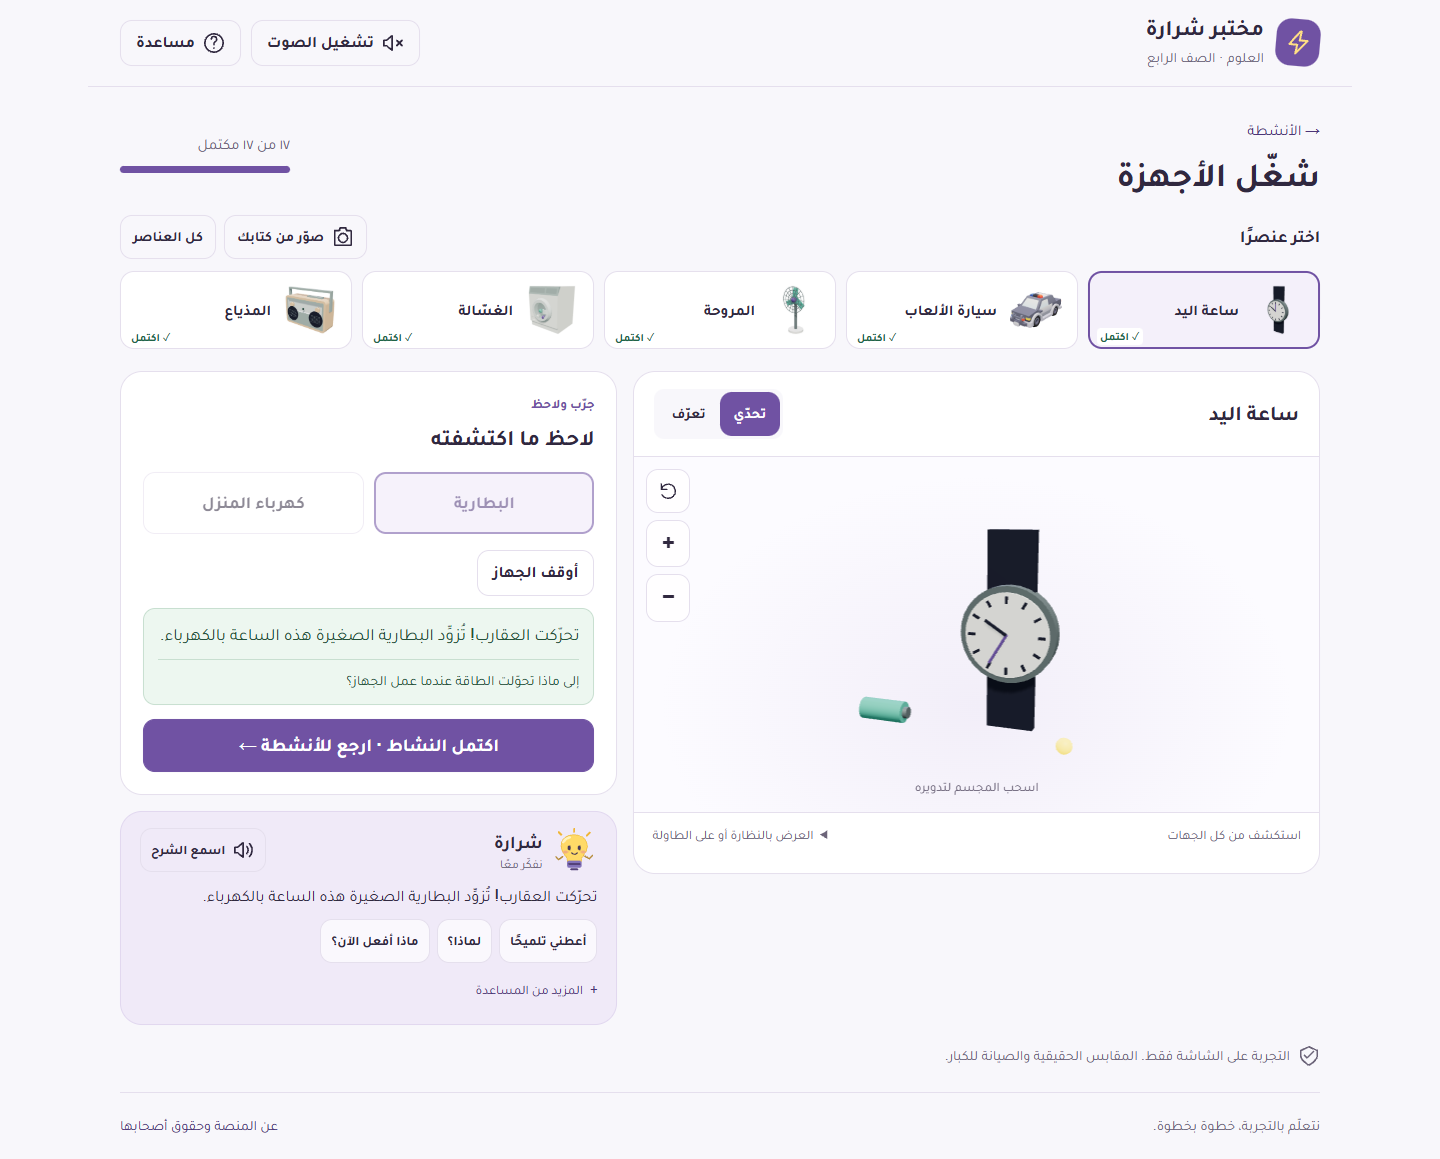
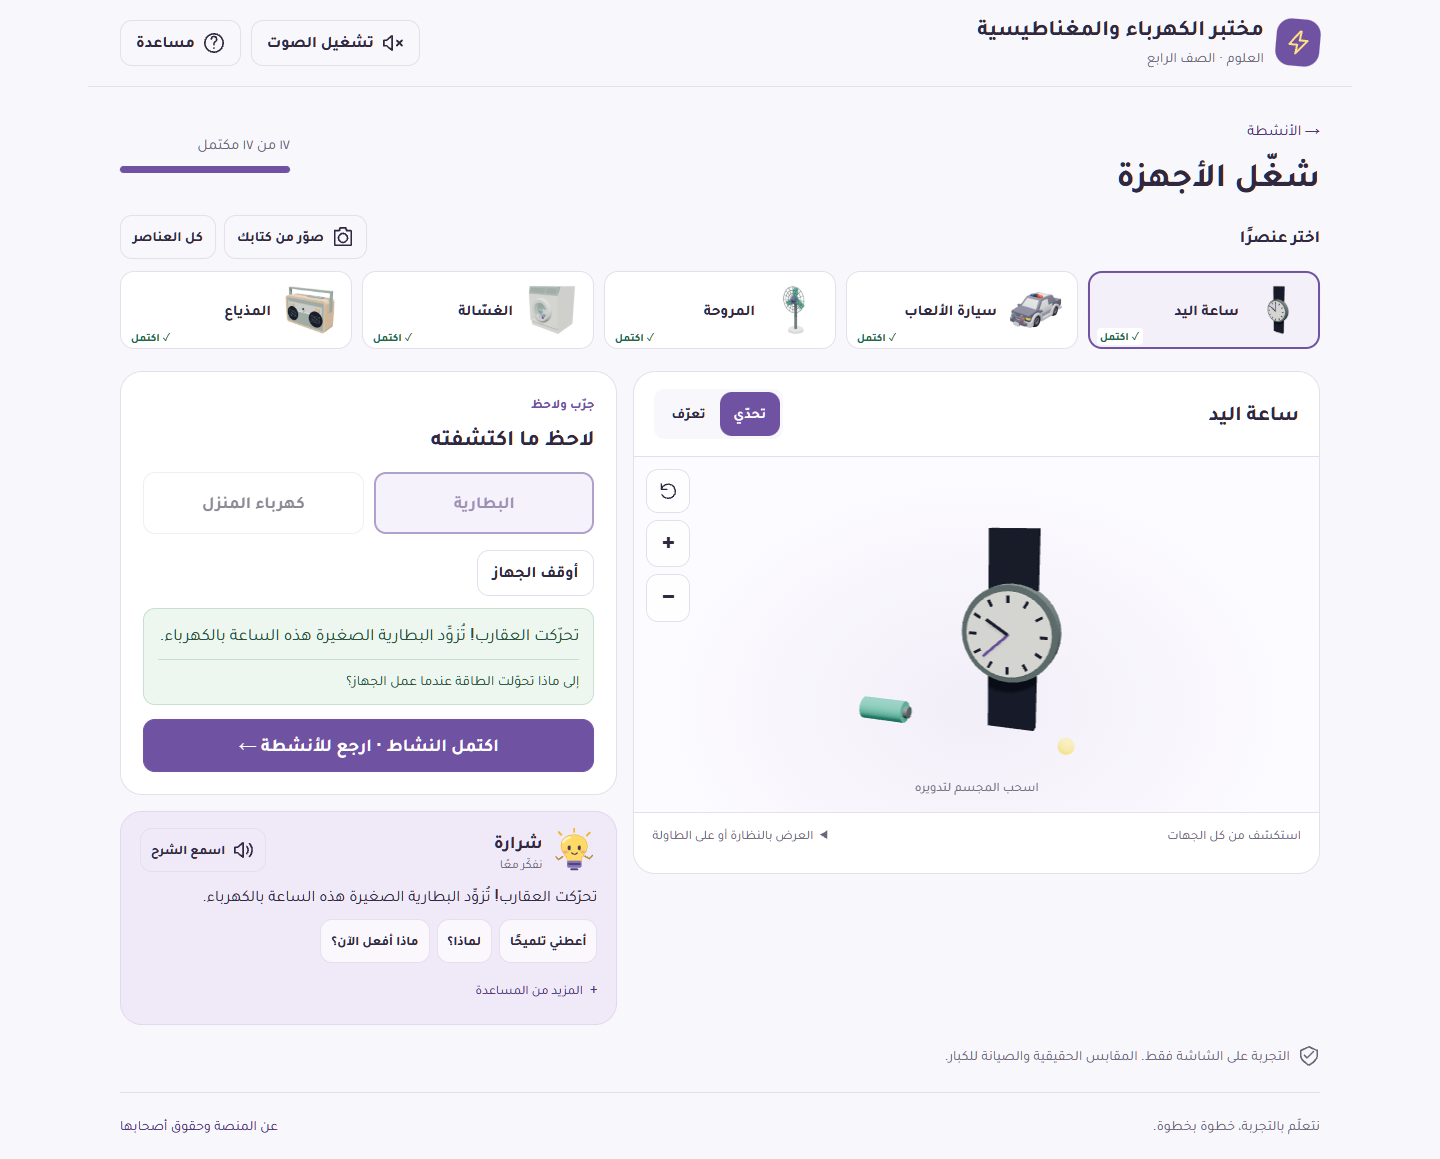
fix(mobile): show full header title without truncation and center elements on small screens

diff --git a/src/shared/lab.css b/src/shared/lab.css
@@ -6,10 +6,10 @@
 @media(max-width:1270px){.home-main,.activity-main,.site-footer{margin-inline:28px}.activity-cards{gap:14px}.activity-copy{padding:18px 15px}.activity-copy h2{font-size:21px}.card-bottom{align-items:flex-start;flex-direction:column;gap:0;margin-top:15px}.item-card{font-size:14px;gap:6px;padding:8px}.item-card.selected{padding:7px}.item-card img{width:45px}.experiment-grid{grid-template-columns:minmax(0,1.2fr) minmax(310px,1fr)}}
 @media(max-width:950px){.activity-cards{grid-template-columns:repeat(2,minmax(0,1fr));gap:20px}.activity-art{height:195px}.activity-art img{height:145px}.activity-card:first-child .activity-art img{height:180px}.activity-copy p{min-height:0}.card-bottom{flex-direction:row;align-items:center;margin-top:14px}.welcome h1{font-size:36px}.welcome-note{display:none}.item-picker{gap:7px}.item-card{flex-direction:column;text-align:center;gap:0;font-size:13px}.item-card img{width:52px;height:42px}.experiment-grid{grid-template-columns:minmax(0,1fr) minmax(280px,.9fr);gap:12px}.answer-card{padding:17px}.answer-card h2{font-size:20px}.model-heading{flex-wrap:wrap;padding:12px 15px}.stage{height:350px}.assistant{padding:14px}.model-footer{display:block}.model-footer>span{display:none}.model-footer details{max-width:none}}
 @media(max-width:700px){.site-header{padding:14px 18px;min-height:78px;gap:10px}.brand strong{font-size:19px}.brand small{font-size:12px}.brand-mark{width:36px;height:41px}.brand{gap:8px}.site-header nav{gap:5px}.site-header nav button{padding:8px;font-size:12px;gap:5px}.site-header nav svg{width:18px;height:18px}.home-main,.activity-main,.site-footer{margin-inline:18px}.welcome{padding:26px 0 23px;display:block}.welcome h1{font-size:33px}.welcome p{font-size:16px}.welcome .eyebrow{font-size:14px}.resume{margin-top:15px}.activity-cards{gap:12px}.activity-art{height:153px}.activity-art img{height:110px}.activity-card:first-child .activity-art img{height:145px}.art-label{font-size:10px;bottom:8px;right:8px;padding:2px 6px}.activity-copy{padding:15px 12px}.activity-copy h2{font-size:20px}.activity-copy p{font-size:14px;min-height:45px}.card-bottom{flex-direction:column;align-items:flex-start;gap:0;margin-top:10px}.start-link{font-size:15px;gap:10px}.card-bottom small{font-size:11px}.home-note{font-size:13px;margin:22px 0}.site-footer{font-size:12px;padding:17px 0;flex-wrap:wrap;margin-top:18px}.activity-heading{margin:12px 0 16px;align-items:flex-end}.activity-heading h1{font-size:27px}.progress-block{width:110px;font-size:12px;padding-bottom:5px}.section-line{align-items:center;gap:6px}.section-line>div{gap:5px}.section-line button{font-size:12px;padding:6px 9px}.section-line button svg{width:17px;height:17px}.section-line h2{font-size:15px}.item-picker{grid-template-columns:repeat(5,minmax(0,1fr));gap:5px;margin-bottom:14px}.item-card{padding:6px 3px;min-height:86px;font-size:11px;border-radius:10px}.item-card.selected{padding:5px 2px}.item-card img{width:45px;height:40px}.completed{font-size:9px;bottom:-3px;inset-inline-end:2px}.experiment-grid{display:flex;flex-direction:column;gap:13px}.model-card,.answer-card,.assistant{width:100%}.model-heading{flex-wrap:nowrap;padding:12px 14px}.model-heading h2{font-size:19px}.mode-switch button{font-size:13px;padding:5px 12px}.stage{height:270px}.stage-caption{bottom:8px}.model-footer{padding:6px 15px;font-size:12px}.model-footer details{max-width:none}.answer-card{padding:18px}.answer-card h2{font-size:22px;margin-bottom:14px}.answer-controls button{min-height:56px}.answer-controls.bins{grid-template-columns:repeat(4,minmax(0,1fr))}.bins button{min-height:72px;font-size:14px;padding:8px 5px}.assistant #guide-text{font-size:16px}.safety-note{font-size:12px}.about-main{margin:18px}.about-main section{padding:18px}.about-main h1{font-size:30px}.library-grid{grid-template-columns:repeat(2,minmax(0,1fr))}dialog{padding:18px}.dialog-head h2{font-size:21px}.circuit-svg{height:130px}}
-@media(max-width:370px){.site-header{padding:12px}.brand strong{font-size:17px}.brand small{font-size:11px}.brand-mark{display:none}.site-header nav button{font-size:11px}.home-main,.activity-main,.site-footer{margin-inline:12px}.welcome h1{font-size:29px}.activity-copy h2{font-size:18px}.activity-copy{padding:12px 9px}.activity-copy p{font-size:13px}.activity-heading h1{font-size:24px}.progress-block{width:90px}.section-line h2{display:none}.section-line>div{width:100%;justify-content:space-between}.answer-controls.bins{grid-template-columns:repeat(3,minmax(0,1fr))}.assistant-actions button{font-size:12px}}
+@media(max-width:370px){.site-header{padding:10px 12px}.brand strong{font-size:13.5px}.brand small{font-size:10.5px}.brand-mark{display:none}.site-header nav button{font-size:11px}.home-main,.activity-main,.site-footer{margin-inline:12px}.welcome h1{font-size:29px}.activity-copy h2{font-size:18px}.activity-copy{padding:12px 9px}.activity-copy p{font-size:13px}.activity-heading h1{font-size:24px}.progress-block{width:min(200px,100%)}.section-line h2{display:none}.section-line>div{width:100%;justify-content:center}.answer-controls.bins{grid-template-columns:repeat(3,minmax(0,1fr))}.assistant-actions button{font-size:12px}}
 .mode-switch button{min-height:44px}.understanding{font-size:14px;border-top:1px solid #c8dfd0;padding-top:9px;margin-top:10px}
 #voice-settings label{display:block;margin-top:16px;font-weight:700}#voice-settings select{display:block;width:100%;margin:6px 0 10px}#preview-voice{margin:15px 0}#voice-settings small{display:block;margin-top:16px;color:var(--muted)}
 @media(max-width:700px){.activity-copy{text-align:center}.activity-copy .card-bottom{align-items:center}}
 #xr-answer-controls{pointer-events:auto;max-width:500px;display:flex;flex-wrap:wrap}#xr-answer-controls [aria-pressed=true]{background:var(--lilac);border:2px solid var(--deep)}
-@media(max-width:700px){.brand{flex-shrink:0}.brand strong{font-size:17px;white-space:nowrap}.brand small{font-size:10px;white-space:nowrap}.brand-mark{width:30px;height:37px}.site-header nav{min-width:0}.site-header nav button{padding:7px;font-size:11px}.site-header nav button span{white-space:nowrap}.site-header nav button svg{width:16px;height:16px}.item-picker .item-card{min-height:96px;padding-bottom:17px}.item-picker .item-card.selected{padding-bottom:16px}.item-picker .item-card span{display:-webkit-box;-webkit-line-clamp:2;-webkit-box-orient:vertical;overflow:hidden}.item-picker .completed{bottom:1px}.stage{height:250px}}
+@media(max-width:700px){.site-header{width:100%;min-width:0;padding:12px 14px;gap:8px}.brand{min-width:0;flex:1 1 auto;gap:8px}.brand>span:last-child{min-width:0}.brand strong{font-size:clamp(13px,3.8vw,16px);line-height:1.25;white-space:normal;overflow-wrap:break-word}.brand small{font-size:11px;margin-top:3px;white-space:normal}.brand-mark{width:30px;height:37px;flex-shrink:0}.site-header nav{min-width:0;flex:0 0 auto;gap:5px}.site-header nav button{flex:0 0 44px;width:44px;padding:8px;font-size:11px}.site-header nav button span{position:absolute;width:1px;height:1px;padding:0;margin:-1px;overflow:hidden;clip:rect(0,0,0,0);white-space:nowrap;border:0}.site-header nav button svg{width:18px;height:18px}.welcome{text-align:center}.activity-heading{flex-direction:column;align-items:center;justify-content:center;text-align:center;gap:8px}.activity-heading>div:first-child{display:flex;flex-direction:column;align-items:center}.progress-block{width:min(220px,100%);text-align:center;padding-bottom:0}.section-line{flex-direction:column;align-items:center;justify-content:center;text-align:center;gap:8px}.section-line>div{width:100%;justify-content:center;flex-wrap:wrap;gap:8px}.item-picker{width:100%;justify-items:stretch}.item-picker .item-card,.item-picker .item-card.selected{min-width:0;min-height:96px;flex-direction:column;align-items:center;justify-content:center;gap:2px;padding:5px 2px 16px;text-align:center;font-size:12px}.item-picker .item-card img{width:min(100%,42px);height:36px;margin-inline:auto}.item-picker .item-card span{width:100%;text-align:center;display:-webkit-box;-webkit-line-clamp:2;-webkit-box-orient:vertical;overflow:hidden}.item-picker .completed{bottom:1px;inset-inline:0;text-align:center}.model-heading{flex-direction:column;align-items:center;justify-content:center;text-align:center;gap:8px}.model-footer{text-align:center}.answer-card{text-align:center}.assistant{text-align:center}.assistant-heading{flex-wrap:wrap;justify-content:center}.assistant-heading .listen{margin-inline-start:0}.assistant-actions{justify-content:center}.assistant summary{justify-content:center}.safety-note{justify-content:center;text-align:center}.site-footer{flex-direction:column;align-items:center;justify-content:center;text-align:center;gap:8px}.about-main{text-align:center}.stage{height:250px}}
 @media(prefers-reduced-motion:reduce){*,*::before,*::after{animation:none!important;transition:none!important;scroll-behavior:auto!important}}

diff --git a/src/electricity/scene.js b/src/electricity/scene.js
@@ -20,11 +20,12 @@ export class LabScene {
     this.reticle=new THREE.Mesh(new THREE.RingGeometry(.075,.10,32).rotateX(-Math.PI/2),new THREE.MeshBasicMaterial({color:0x57ba9f}));this.reticle.matrixAutoUpdate=false;this.reticle.visible=false;this.scene.add(this.reticle);
     this.raycaster=new THREE.Raycaster();this.controller=this.renderer.xr.getController(0);this.scene.add(this.controller);
     const line=new THREE.Line(new THREE.BufferGeometry().setFromPoints([new THREE.Vector3(),new THREE.Vector3(0,0,-5)]),new THREE.LineBasicMaterial({color:0xa190e4}));this.controller.add(line);this.controller.addEventListener('select',()=>this.selectXR());
+    this.handleResize=()=>this.resize();window.addEventListener('resize',this.handleResize,{passive:true});
     this.observer=new ResizeObserver(()=>this.resize());this.observer.observe(container);this.resize();
     this.renderer.domElement.addEventListener('webglcontextlost',e=>{e.preventDefault();hooks.error('توقّف العرض الثلاثي الأبعاد. تابع التجربة بالأزرار أو أعد تحميل الصفحة.');});
     this.renderer.setAnimationLoop((ms,frame)=>this.frame(ms/1000,frame));this.revision=0;this.ready=false;
   }
-  resize(){if(this.renderer.xr.isPresenting)return;const {width,height}=this.container.getBoundingClientRect();if(!width||!height)return;this.renderer.setSize(width,height);this.camera.aspect=width/height;this.camera.updateProjectionMatrix();}
+  resize(){if(this.renderer.xr.isPresenting)return;const {width,height}=this.container.getBoundingClientRect(),w=Math.round(width),h=Math.round(height);if(!w||!h||(w===this.width&&h===this.height))return;this.width=w;this.height=h;this.renderer.setSize(w,h,false);this.camera.aspect=w/h;this.camera.updateProjectionMatrix();}
   async setDevice(device){
     const rev=++this.revision;this.ready=false;
     if(this.model){this.world.remove(this.model);this.disposeModel(this.model);this.model=null;}

diff --git a/src/shared/audio-manager.js b/src/shared/audio-manager.js
@@ -14,7 +14,7 @@ export class AudioManager {
       }).catch(()=>{}),
     ]);
     this.voices=()=>window.speechSynthesis?.getVoices().filter(v=>v.localService&&/^ar(?:[-_]|$)/i.test(v.lang))||[];
-    window.speechSynthesis?.getVoices();
+    if(this.preferences.mode==='device')window.speechSynthesis?.getVoices();
     window.addEventListener('pagehide',()=>this.stop());
     document.addEventListener('visibilitychange',()=>{if(document.hidden)this.stop();});
   }
@@ -23,7 +23,7 @@ export class AudioManager {
     try{localStorage.setItem('sharara-voice-v1',JSON.stringify(this.preferences));}catch{}
   }
   toggle(){this.unlocked=true;this.enabled=!this.enabled;try{localStorage.setItem('sharara-sound',this.enabled?'on':'off');}catch{}if(!this.enabled)this.stop();}
-  stop(){++this.revision;this.audio.onended=null;this.audio.onerror=null;this.audio.pause();this.audio.removeAttribute('src');window.speechSynthesis?.cancel();this.onStatus('idle');}
+  stop(){++this.revision;this.audio.onended=null;this.audio.onerror=null;this.audio.pause();this.audio.removeAttribute('src');if(window.speechSynthesis?.speaking||window.speechSynthesis?.pending)window.speechSynthesis.cancel();this.onStatus('idle');}
   async speak(text,explicit=false){
     this.stop();if(explicit)this.unlocked=true;
     if(!this.unlocked||(!this.enabled&&!explicit))return;

diff --git a/src/shared/app.js b/src/shared/app.js
@@ -50,7 +50,7 @@ async function selectItem(id){
  const item=itemById(activity,id);if(!item)return;
  audio.stop();state=newAttempt(id,state?.mode||'play');
  const saved=attempts[activity.id+':'+id];if(saved&&typeof saved==='object'){state.attempts=Number.isInteger(saved.attempts)&&saved.attempts>=0?saved.attempts:0;state.hints=Number.isInteger(saved.hints)?Math.max(0,Math.min(3,saved.hints)):0;state.revealed=saved.revealed===true;}if(state.mode==='learn'){state.revealed=true;rememberAttempt();}
- progress.last={activity:activity.id,item:id};persist();const url=new URL(location.href);url.searchParams.set('item',id);url.searchParams.delete('device');history.replaceState(null,'',url);
+ progress.last={activity:activity.id,item:id};persist();const url=new URL(location.href);url.searchParams.set('item',id);url.searchParams.delete('device');if(url.href!==location.href)history.replaceState(null,'',url);
  render();say(guidance(activity,state));const rev=++loadRevision;$('#model-status').hidden=false;$('#model-status').textContent='نجهّز المجسم…';
  if(scene){try{await scene.setItem(item);if(rev===loadRevision){$('#model-status').hidden=true;$('#scene').dataset.loaded=id;}}catch{if(rev===loadRevision)fallback();}}else if($('#scene .fallback-image'))fallback();
 }

diff --git a/src/shared/model-viewer.js b/src/shared/model-viewer.js
@@ -43,5 +43,5 @@ export class ModelViewer extends LabScene {
     if(!this.activity||this.activity==='electricity'){super.frame(t,frame);return;}
     this.controls.update();this.renderer.render(this.scene,this.camera);
   }
-  destroy(){++this.revision;this.renderer.setAnimationLoop(null);this.observer.disconnect();this.controls.dispose();this.clearVR();if(this.model)this.disposeModel(this.model);this.scene.traverse(o=>{if(o.isMesh||o.isLine){o.geometry?.dispose();for(const m of (Array.isArray(o.material)?o.material:[o.material]).filter(Boolean)){m.map?.dispose();m.dispose();}}});this.renderer.dispose();}
+  destroy(){++this.revision;this.renderer.setAnimationLoop(null);this.observer.disconnect();window.removeEventListener('resize',this.handleResize);this.controls.dispose();this.clearVR();if(this.model)this.disposeModel(this.model);this.scene.traverse(o=>{if(o.isMesh||o.isLine){o.geometry?.dispose();for(const m of (Array.isArray(o.material)?o.material:[o.material]).filter(Boolean)){m.map?.dispose();m.dispose();}}});this.renderer.dispose();}
 }

diff --git a/src/shared/voice-settings.js b/src/shared/voice-settings.js
@@ -16,7 +16,7 @@ export async function mountVoiceSettings(audio){
   (document.querySelector('.assistant details')||document.querySelector('#help')).append(button);
   const $=id=>document.getElementById(id);
   const refresh=()=>{
-    const voices=audio.voices();$('device-voice').innerHTML=voices.length?voices.map(v=>`<option value="${esc(v.voiceURI)}">${esc(v.name)}</option>`).join(''):'<option value="">لا يوجد صوت عربي محلي</option>';
+    const voices=audio.preferences.mode==='device'?audio.voices():[];$('device-voice').innerHTML=voices.length?voices.map(v=>`<option value="${esc(v.voiceURI)}">${esc(v.name)}</option>`).join(''):'<option value="">لا يوجد صوت عربي محلي</option>';
     if(voices.some(v=>v.voiceURI===audio.preferences.voiceURI))$('device-voice').value=audio.preferences.voiceURI;
     $('voice-mode').value=audio.preferences.mode;$('voice-rate').value=String(audio.preferences.rate);
     $('device-voice-options').hidden=audio.preferences.mode!=='device';
